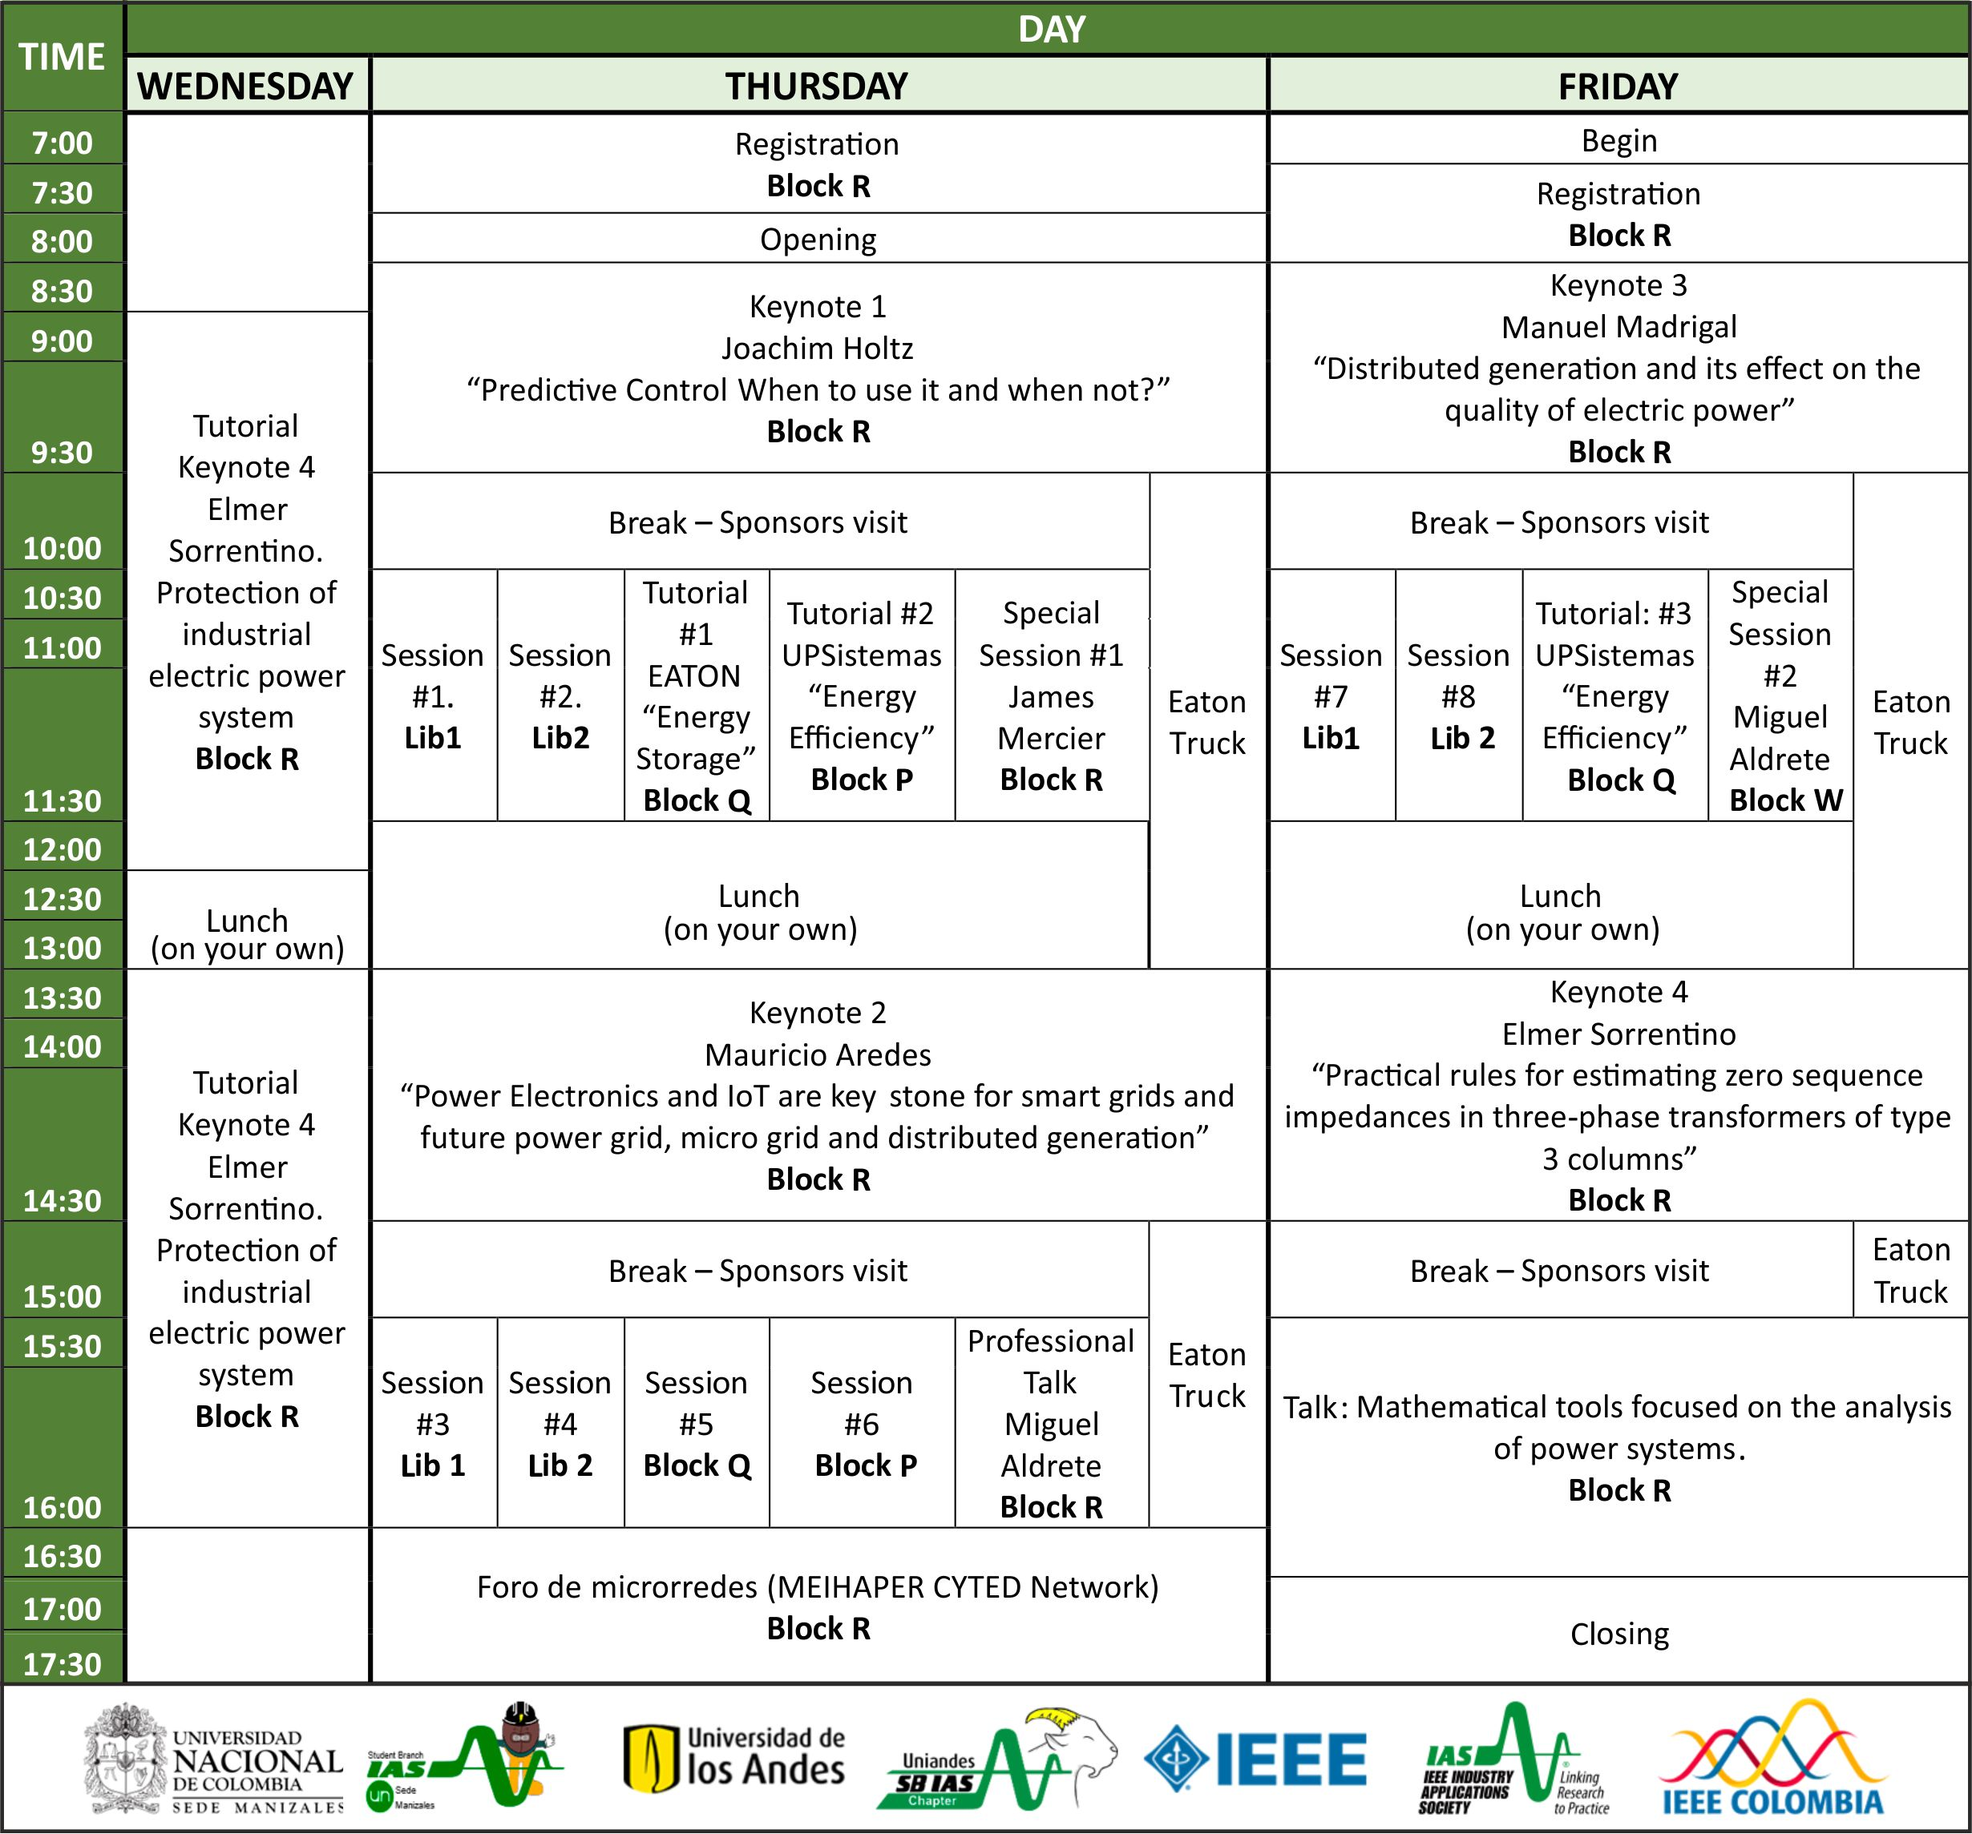
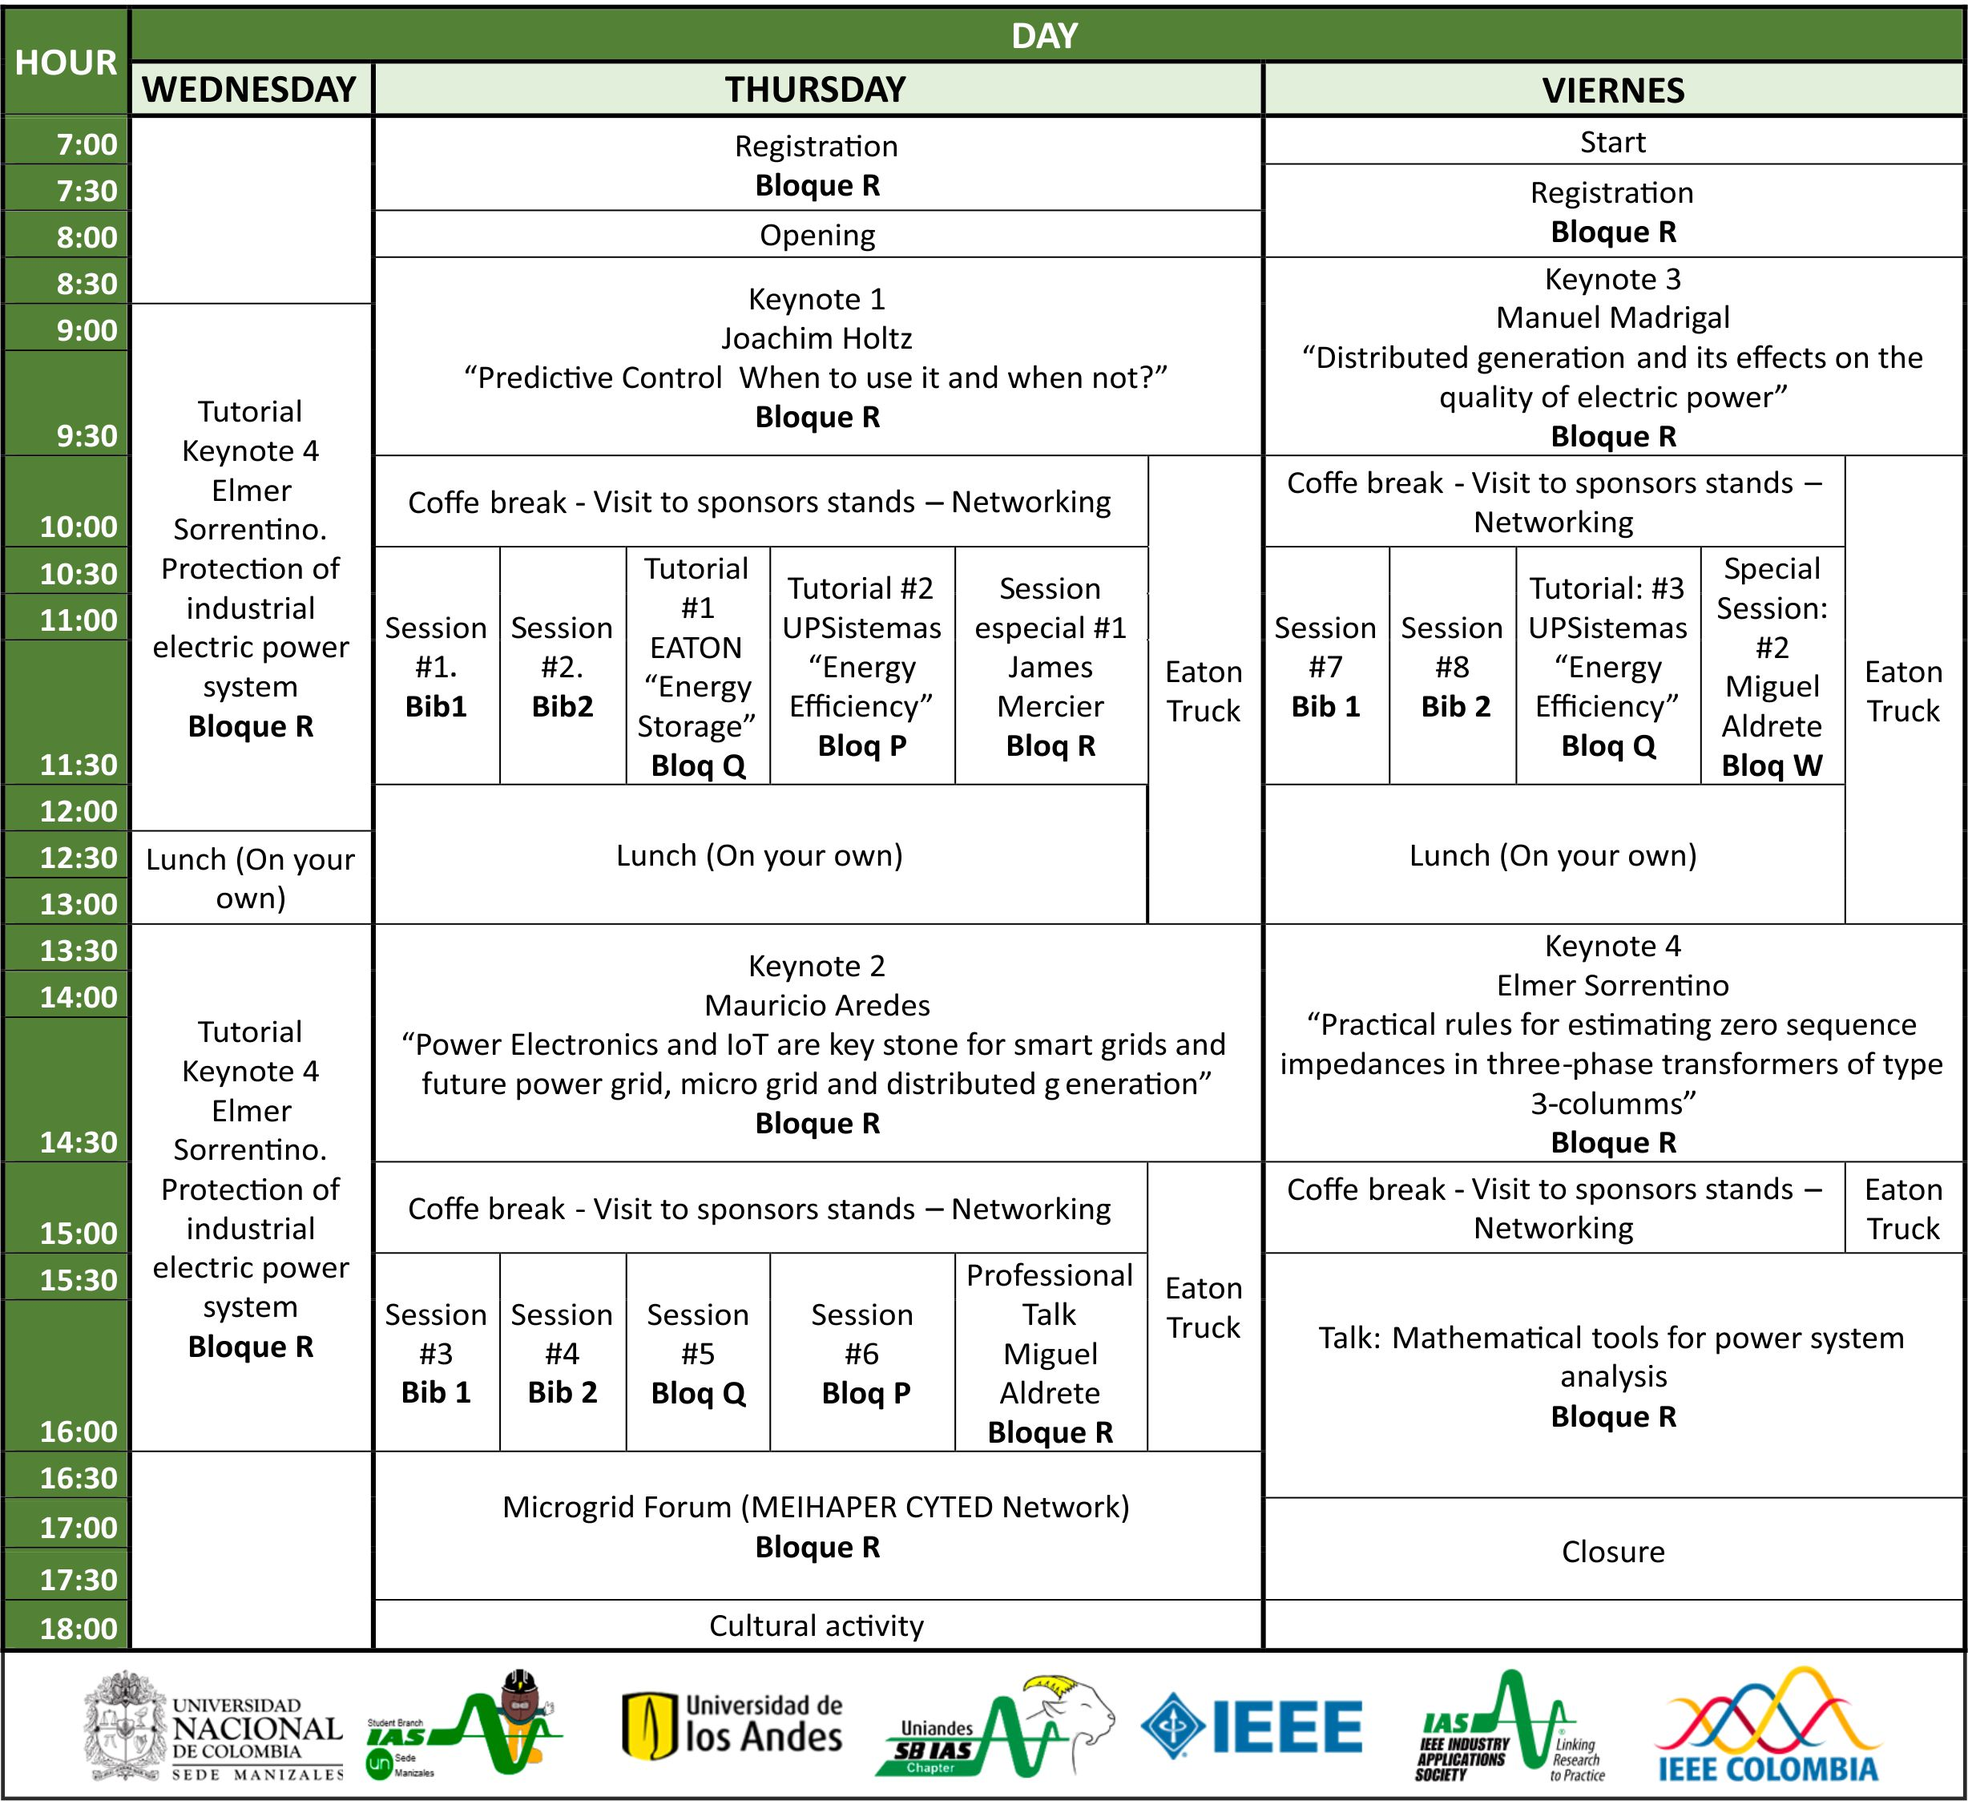
actualizacion timeline y mapa

Changed region(s): [[0.0, 0.0, 1.0, 1.0], [0.9283, 0.4984, 0.9593, 0.5296], [0.557, 0.4984, 0.5879, 0.5296]]

diff --git a/ws_web/pages/timeline.html b/ws_web/pages/timeline.html
@@ -104,6 +104,12 @@
                     <img src="/images/timeline/cronograma2.jpg" width="60%">
                     </div>
                        </center> 
+                  <center>
+                  <div class="item">
+                    <img src="/images/timeline/mapa.jpg" width="60%">
+                    </div>
+                       </center> 
+                      
                       
 
                       
